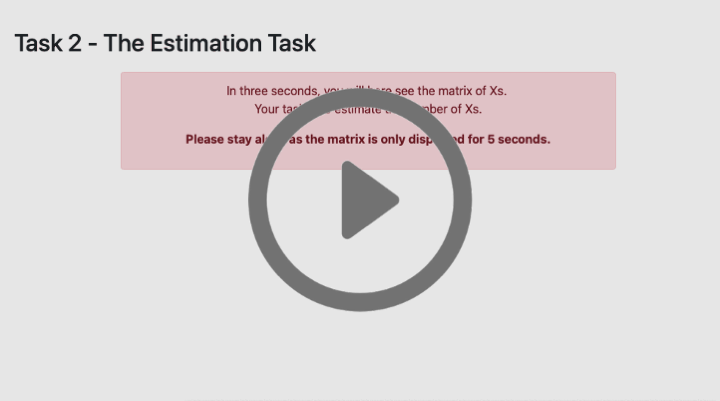
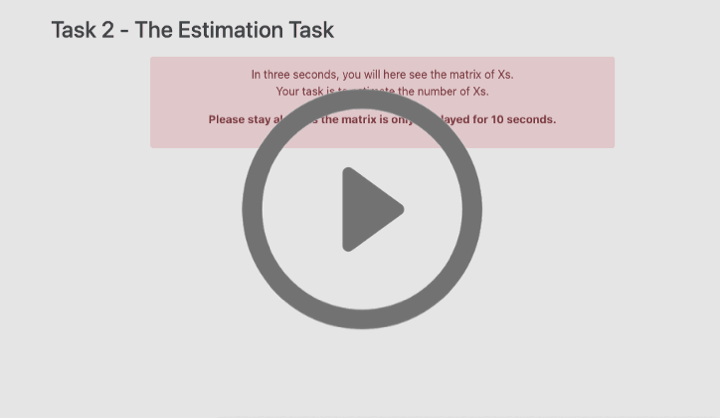
Updated Timer on belief task

Changed region(s): [[0.0, 0.0299, 0.8556, 0.808], [0.4583, 0.5087, 0.55, 0.5985], [0.55, 0.4788, 0.5806, 0.5087]]

diff --git a/impact_beliefs/templates/impact_beliefs/Belief.html b/impact_beliefs/templates/impact_beliefs/Belief.html
@@ -44,7 +44,7 @@
 
     </body>
 
-<p style="margin-top:30cm;">This is the first question?</p>
+<p style="margin-top:30cm;"></p>
 
 
 {% endblock %}

diff --git a/impact_beliefs/models.py b/impact_beliefs/models.py
@@ -37,7 +37,7 @@ class Constants(BaseConstants):
     # slider_columns = 3  # uncomment this if you want sliders in the slider task to be displayed in multiple columns
     num_sliders = 1
 
-    sec_per_matrix = 5
+    sec_per_matrix = 10
 
     real_world_kg_co2_per_x = 0.5
     car_km_per_kg_co2 = 6  # source: atmosfair.de
